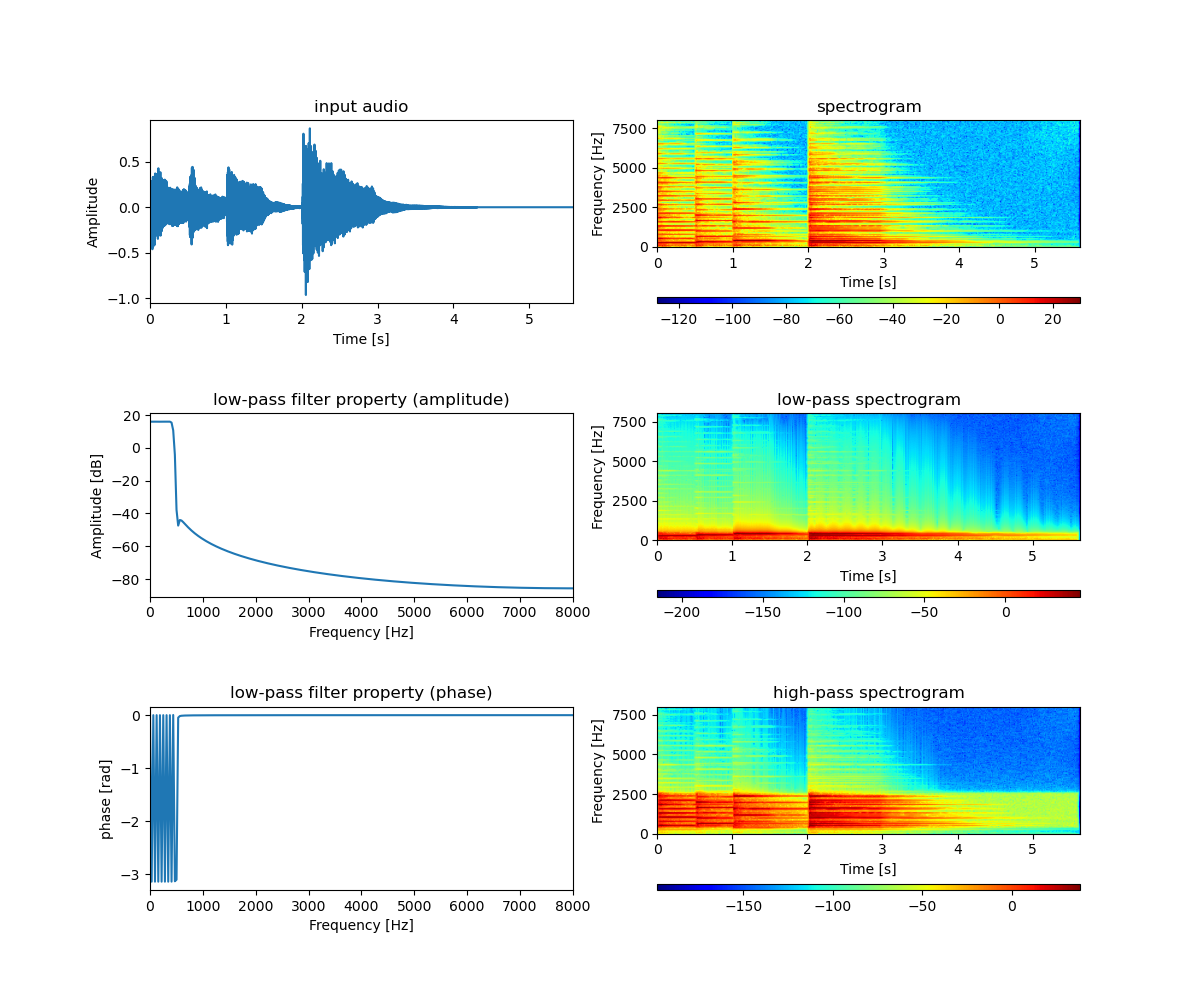
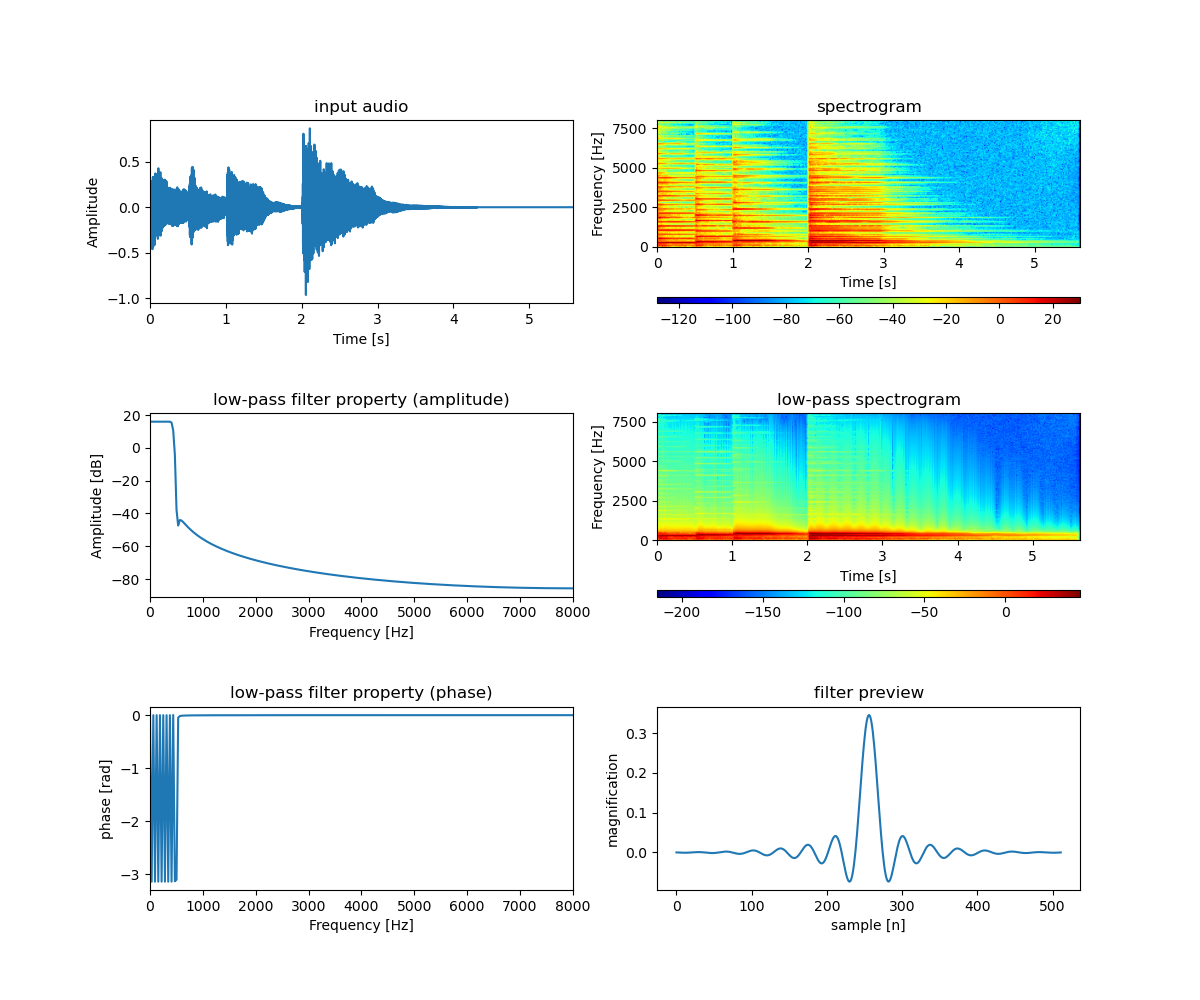
update result.png

Changed region(s): [[0.4933, 0.682, 0.925, 0.93]]

diff --git a/ex2/sawada/main.py b/ex2/sawada/main.py
@@ -191,6 +191,7 @@ if __name__ == "__main__":
     cax = divider.append_axes("bottom", size="5%", pad=0.5)
     plt.colorbar(im, cax=cax, orientation="horizontal")
 
+    """
     # HPF
     high_pass_filter = create_hpf(440)
     wav_hpf = apply_filter(wav, high_pass_filter)
@@ -211,6 +212,13 @@ if __name__ == "__main__":
     divider = make_axes_locatable(ax[2, 1])
     cax = divider.append_axes("bottom", size="5%", pad=0.5)
     plt.colorbar(im, cax=cax, orientation="horizontal")
+    """
+    
+    # filter preview
+    ax[2, 1].set_title("filter preview")
+    ax[2, 1].plot(low_pass_filter)
+    ax[2, 1].set_xlabel("sample [n]")
+    ax[2, 1].set_ylabel("magnification")
     
     # filter property
     filter_property = np.fft.fft(low_pass_filter)
